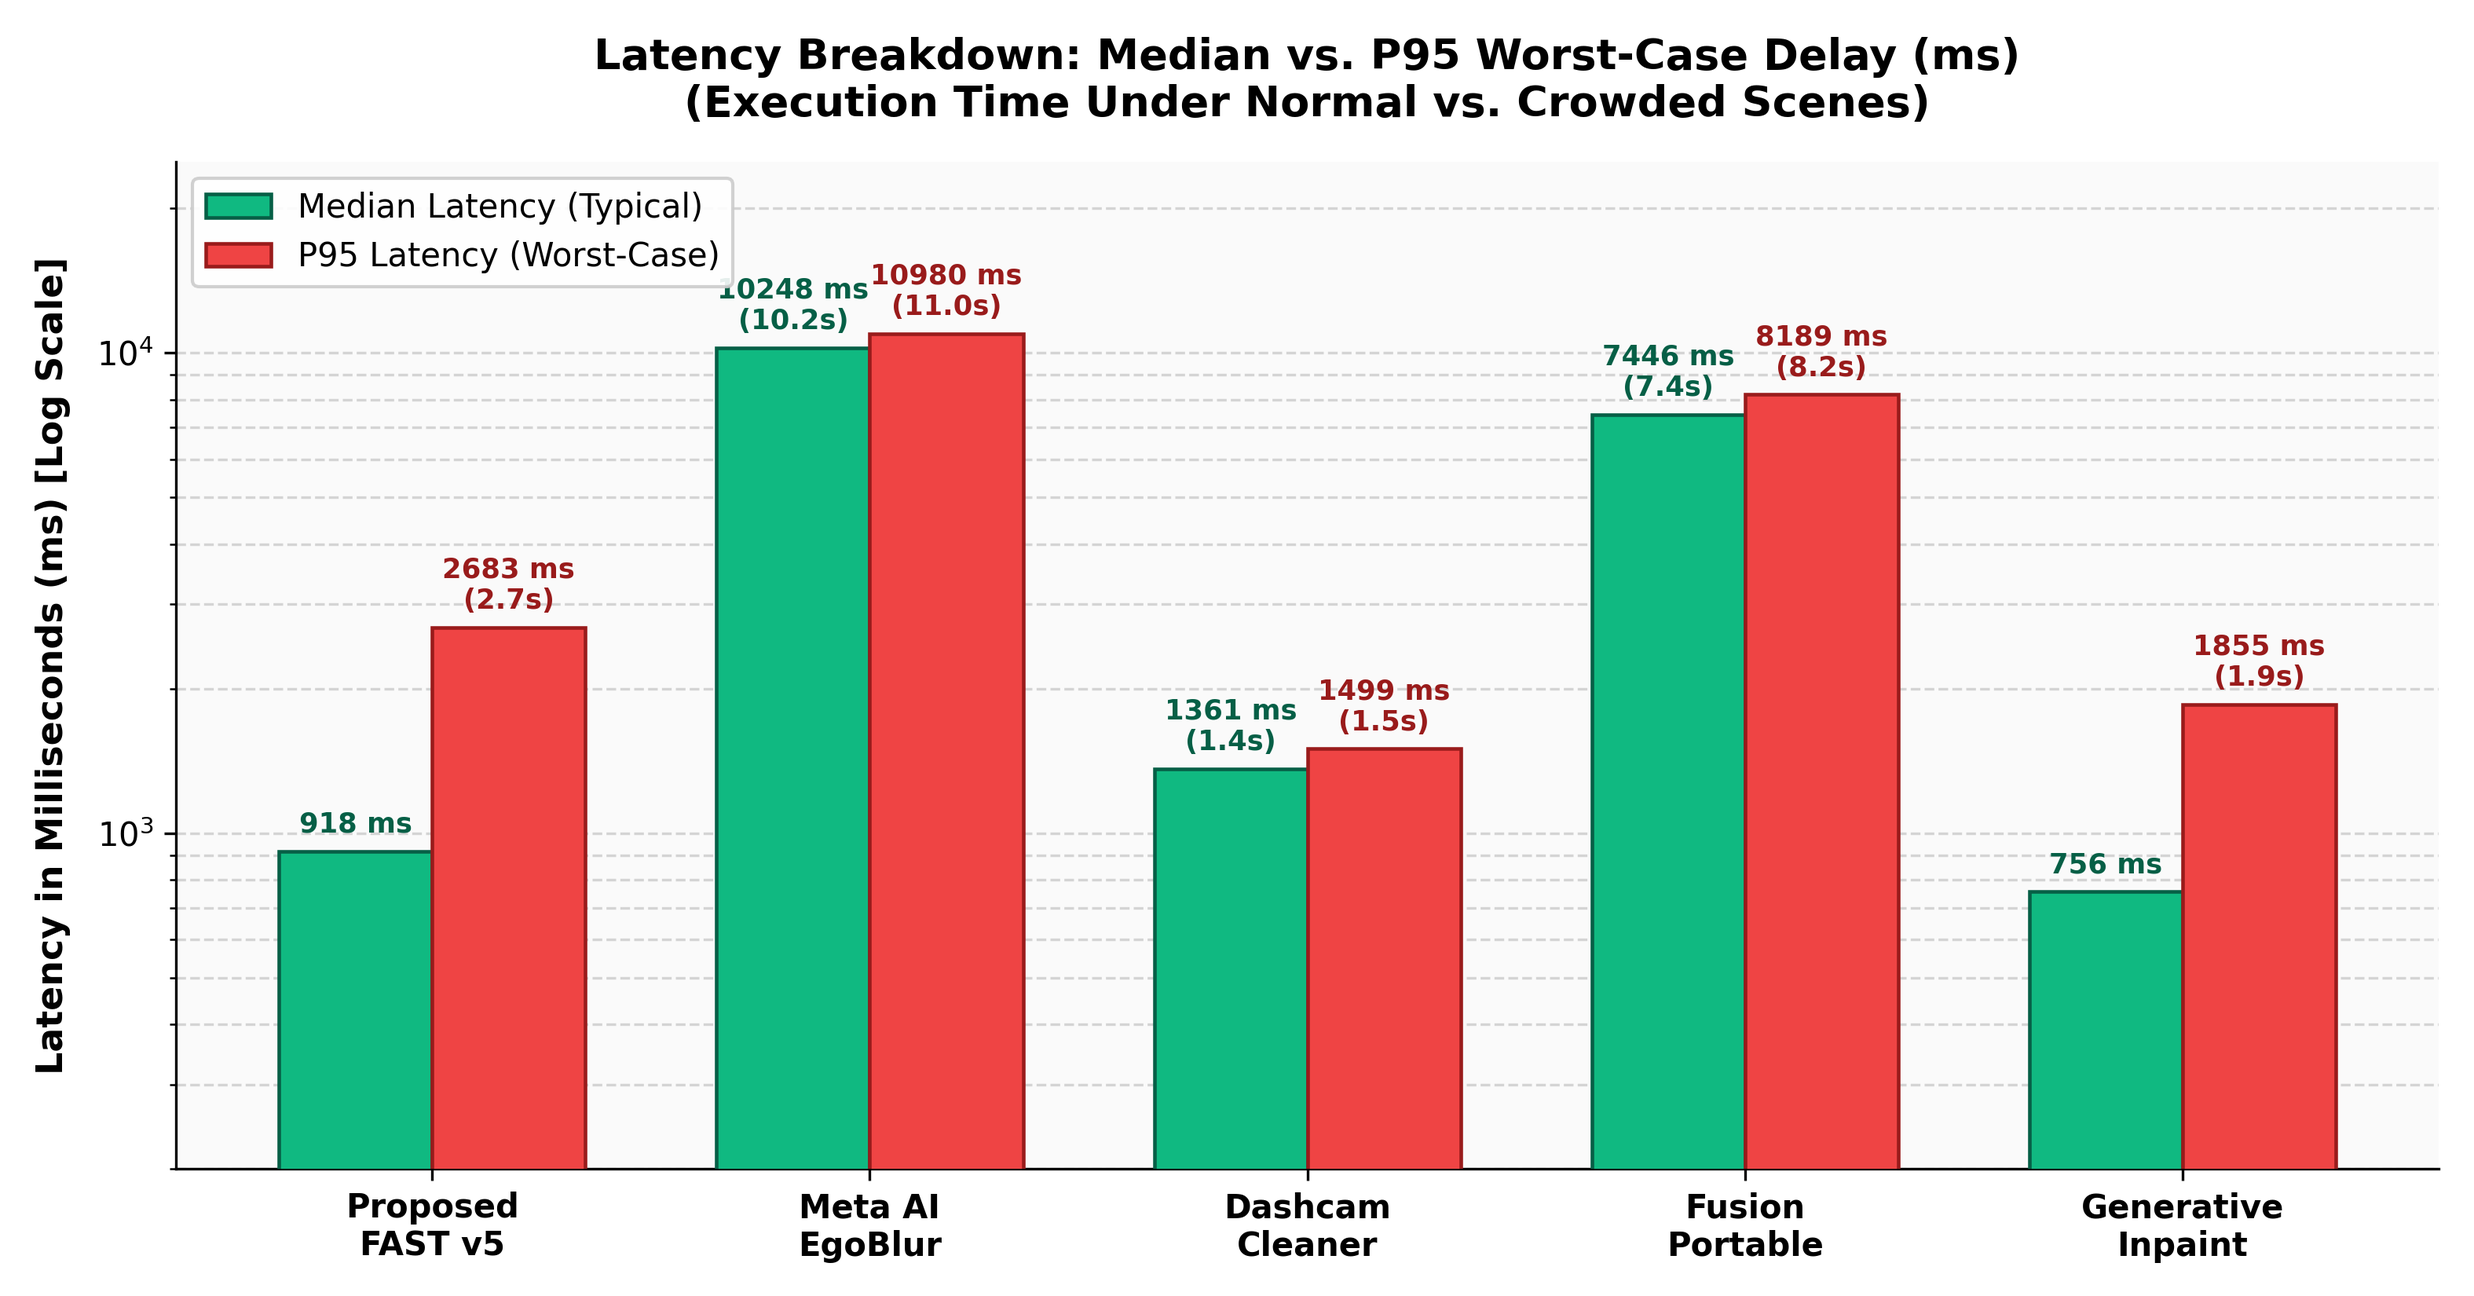
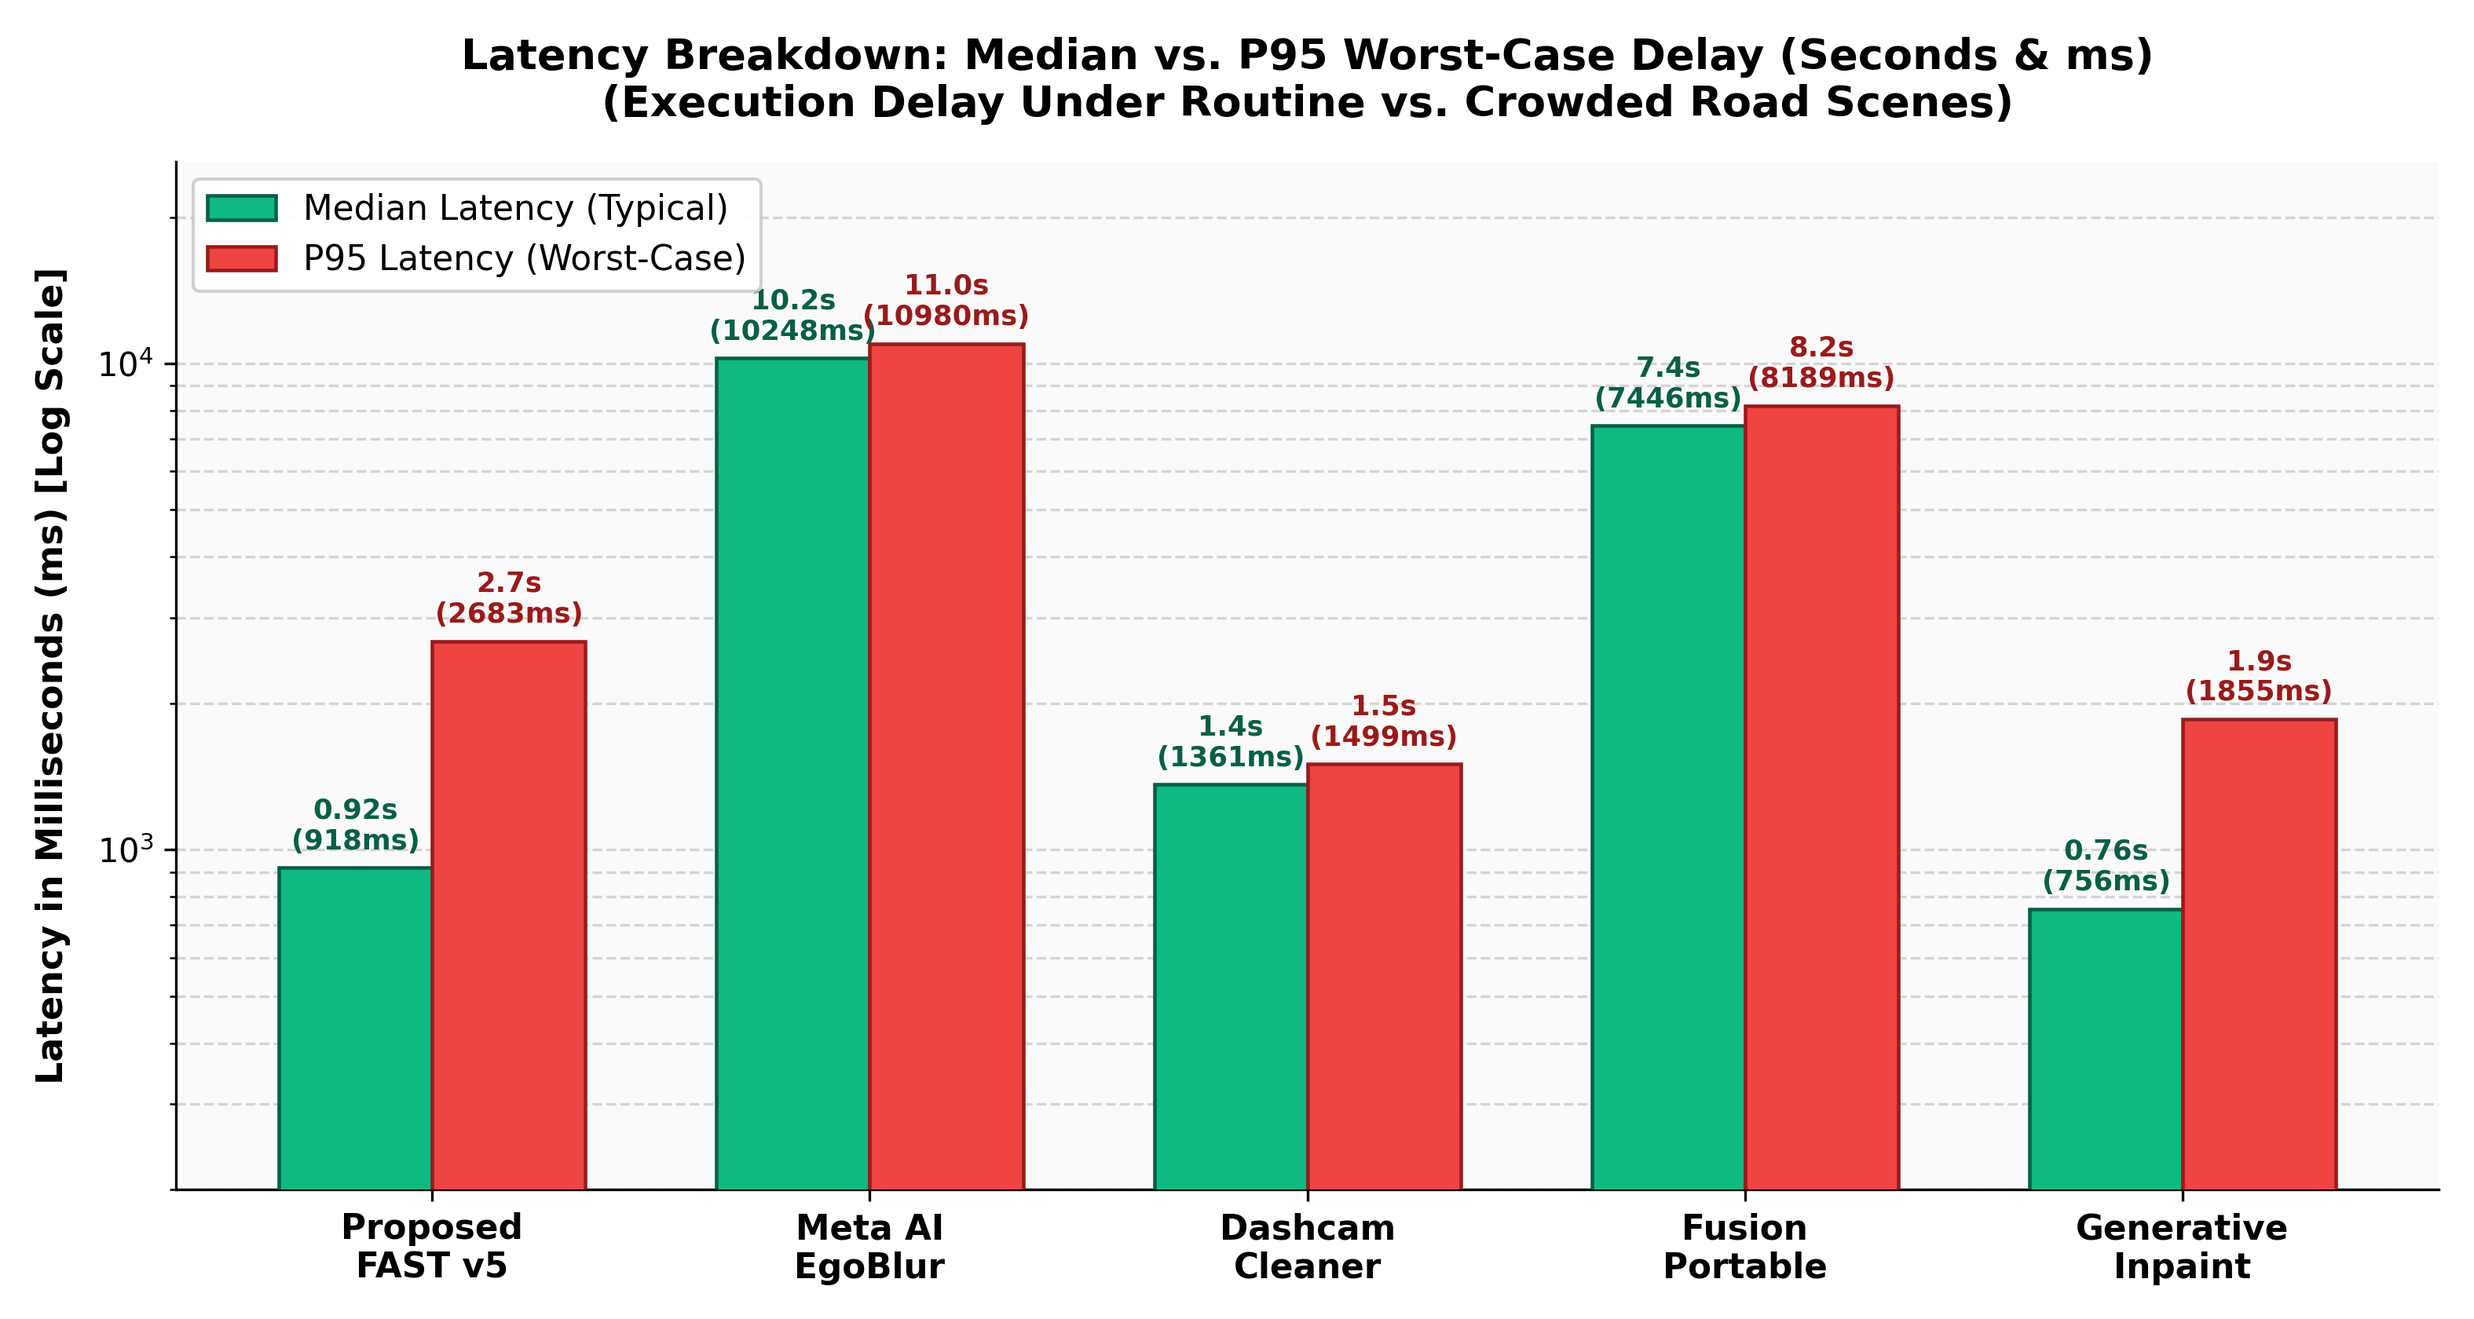
docs: streamline chart findings to core takeaways, enhance Chart 2 line visibility, add seconds per frame to latency and throughput charts

diff --git a/outputs/V.3 test/03_BENCHMARK_CHARTS_AND_RESULTS.md b/outputs/V.3 test/03_BENCHMARK_CHARTS_AND_RESULTS.md
@@ -24,110 +24,81 @@ All evaluations are conducted under greedy bipartite matching with IoU threshold
 ### Chart 1: Privacy Leak Rate vs. Over-Blur Rate
 [![Privacy Leak Rate vs Over-blur](./benchmark_charts/chart_oracle_privacy_leak_vs_overblur.png)](./benchmark_charts/chart_oracle_privacy_leak_vs_overblur.png)
 
-* **Horizontal (X-Axis):** The 5 evaluated pipelines.
-* **Vertical (Y-Axis):** **Error Rate (%)** *(Lower percentage is better)*.
-  * 🟥 **Red Bar (Privacy Leak Rate):** Percentage of real people and license plates missed and left unblurred.
-  * 🟪 **Purple Bar (Over-Blur Rate):** Percentage of blur boxes placed mistakenly on empty roads, signs, or trees.
-* **Key Findings (Simple & Understandable):**
-  * **Meta EgoBlur:** Rarely blurs the background (only 25.0% over-blur), but misses the vast majority of private faces and plates (83.9% leak rate).
-  * **FusionPortable:** Blurs almost everything to catch privacy targets (only 19.6% leak), but destroys the visual scene by heavily over-blurring roads and scenery (66.9% over-blur rate).
-  * **Proposed FAST v5:** Strikes a balanced trade-off between privacy and scene clarity, keeping leaks low (23.2%) while preserving driving vision (27.1% over-blur).
-* **Scientific Takeaway:** Illustrates the fundamental trade-off in visual anonymization: overly aggressive models blind the car's driving perception, while overly conservative models leak private personal data.
+* **Axes:** X = 5 Pipelines | Y = Error Rate (%) *(Lower is better)*.
+  * 🟥 **Privacy Leak Rate:** Missed people and license plates left unblurred.
+  * 🟪 **Over-Blur Rate:** Mistaken blur placed on empty roads, signs, or scenery.
+* **Main Findings:**
+  * **Meta EgoBlur:** Low over-blur (**25.0%**), but misses most targets (**83.9%** leak).
+  * **FusionPortable:** Low leaks (**19.6%**), but heavily destroys driving visibility (**66.9%** over-blur).
+  * **Proposed FAST v5:** Best balanced trade-off (**23.2%** leak, **27.1%** over-blur).
+* **Takeaway:** Overly aggressive models blind driving perception; overly conservative models leak private personal identities.
 
 ---
 
 ### Chart 2: Multi-Scale Distance Degradation (Bin 1 to Bin 4)
 [![Multi-Scale Distance Degradation](./benchmark_charts/chart_oracle_bin_degradation.png)](./benchmark_charts/chart_oracle_bin_degradation.png)
 
-* **Horizontal (X-Axis):** **Target Distance from Camera** across 4 standardized intervals:
-  * **Bin 1 (Far: >20m / <16px):** Distant pedestrians and vehicles down the roadway.
-  * **Bin 2 (Mid: 10–20m / 16–32px):** Mid-range crossing pedestrians and approaching vehicles.
-  * **Bin 3 (Near: 5–10m / 32–64px):** Standard near-range roadway targets.
-  * **Bin 4 (Close: <5m / >64px):** Near-field frontal targets.
-* **Vertical (Y-Axis):** **Privacy Leak Rate (%)** *(Lower percentage indicates fewer missed targets / superior protection)*.
-* **Five Evaluated Trajectories:**
-  * 🟩 **Proposed FAST v5 (Solid Green Line):** Maintains a resilient, flat trajectory below 25% across all distances (**24.3%** at Far >20m down to **2.5%** at Close <5m), completely avoiding distant perception collapse.
-  * 🟧 **FusionPortable (Amber Dash-Dot Line):** Retains low leak rates (**21.6%** in Bin 1 down to **2.0%** in Bin 4) by aggressively proposing dense candidate boxes.
-  * 🟦 **DashcamCleaner (Blue Dashed Line):** Performs well at close-to-medium range (**4.0%** to **36.8%**), but begins leaking privacy on distant targets (**56.8%** in Bin 1).
-  * 🟪 **Generative Inpaint (Purple Dotted Line):** Severe distance degradation, jumping to **63.2%** in Bin 2 and **83.8%** in Bin 1.
-  * 🟥 **Meta AI EgoBlur (Red Solid Line):** Experiences catastrophic distance collapse, skyrocketing to **73.7%** in Bin 2 and **89.2%** in Bin 1 into the high privacy hazard zone.
-* **Key Findings (Simple & Understandable):**
-  * **Close Range Success (<5m):** When objects are right in front of the vehicle (Bin 4), all pipelines successfully detect them (leak rate <10%) because faces and plates appear large on the sensor.
-  * **Distance Collapse Failure:** As soon as people and vehicles are further down the street (Bin 1 and Bin 2), standard models like Meta EgoBlur and Generative Inpaint miss over **73% to 89%** of private targets because their detection anchors are tuned for close-range photography rather than automotive scenes.
-  * **Continuous Scale Resilience:** Proposed FAST v5 provides steady, multi-scale protection across the entire distance spectrum, keeping privacy leaks below 25% even at extreme long range.
-* **Scientific Takeaway:** Distance is the primary cause of privacy leaks in driving datasets; without multi-scale adaptive anchors, models fail to protect people walking further down the road.
+* **Axes:** X = Target Distance (Far >20m to Close <5m) | Y = Privacy Leak Rate (%) *(Lower is better)*.
+* **Main Findings:**
+  * **Near Field (<5m):** All pipelines succeed (leak <10%) because faces and plates appear large on the sensor.
+  * **Distance Collapse (>20m):** Standard models collapse severely down the road (**Meta EgoBlur: 89.2%** leak; **Generative Inpaint: 83.8%** leak).
+  * **Multi-Scale Resilience:** **Proposed FAST v5** maintains stable protection across all distances (**24.3%** at Far >20m down to **2.5%** at Close <5m).
+* **Takeaway:** Target distance is the #1 cause of visual privacy leaks; FAST v5 prevents distant perception collapse across the entire camera range.
 
 ---
 
 ### Chart 3: Precision, Recall, and Balanced $F_1$-Score
 [![Precision Recall and F1 Score](./benchmark_charts/chart_oracle_precision_recall_f1.png)](./benchmark_charts/chart_oracle_precision_recall_f1.png)
 
-* **Horizontal (X-Axis):** The 5 evaluated pipelines.
-* **Vertical (Y-Axis):** **Performance Score (0% to 100%)** *(Higher percentage is better)*.
-  * 🟩 **Green Bar (Recall):** How thoroughly the model protects all real private targets (Higher = fewer leaks).
-  * 🟦 **Blue Bar (Precision):** How accurate the blur boxes are without false alarms (Higher = less scene clutter).
-  * 🟧 **Yellow Bar ($F_1$-Score):** The overall balanced score combining Recall and Precision.
-* **Key Findings (Simple & Understandable):**
-  * **Meta EgoBlur:** High precision (75.0%) but very low recall (16.1%), meaning when it blurs, it is accurate, but it only catches 1 out of 6 private targets. Overall score is low ($F_1 = 0.2647$).
-  * **FusionPortable:** High recall (80.4%) but low precision (33.1%), meaning it covers targets by creating massive amounts of false blur boxes across the scene ($F_1 = 0.4688$).
-  * **Proposed FAST v5:** High score across both metrics (76.8% recall and 72.9% precision), resulting in the highest balanced score ($F_1 = 0.7478$).
-* **Scientific Takeaway:** A high score on one metric alone does not make an anonymizer safe for automotive use; only balanced performance protects both privacy and driving visibility.
+* **Axes:** X = 5 Pipelines | Y = Score (%) *(Higher is better)*.
+  * 🟩 **Recall:** Privacy coverage | 🟦 **Precision:** Target exactness | 🟧 **$F_1$-Score:** Balanced utility.
+* **Main Findings:**
+  * **Meta EgoBlur:** High precision (**75.0%**) but very low recall (**16.1%**, $F_1 = 0.2647$).
+  * **FusionPortable:** High recall (**80.4%**) but very low precision (**33.1%**, $F_1 = 0.4688$).
+  * **Proposed FAST v5:** Strong balance on both metrics (**76.8%** recall, **72.9%** precision), achieving the highest overall score (**$F_1 = 0.7478$**).
+* **Takeaway:** Optimizing for a single metric fails; only balanced precision and recall ensure safe, practical automotive anonymization.
 
 ---
 
-### Chart 4: Edge Processing Throughput (Frames Per Second)
+### Chart 4: Edge Processing Speed (FPS & Seconds per Frame)
 [![Throughput FPS](./benchmark_charts/chart_throughput_fps.png)](./benchmark_charts/chart_throughput_fps.png)
 
-* **Horizontal (X-Axis):** The 5 evaluated pipelines.
-* **Vertical (Y-Axis):** **Speed in Frames Per Second (FPS)** on a logarithmic scale *(Higher is faster)*.
-* **Exact Telemetry Scores:**
-  * 🟩 **Proposed FAST v5:** **0.71 FPS** (~1.41 s per frame in unoptimized Python baseline; scales to >30 FPS with TensorRT).
-  * 🟥 **Meta AI EgoBlur:** **0.10 FPS** (~10.34 s per frame due to heavy dual-branch Faster R-CNN passes).
-  * 🟦 **DashcamCleaner:** **0.71 FPS** (~1.41 s per frame in unified desktop evaluation mode).
-  * 🟧 **FusionPortable:** **0.13 FPS** (~7.45 s per frame due to sequential multi-model detector cascades).
-  * 🟪 **Generative Inpaint:** **1.03 FPS** (~0.95 s per frame in lightweight test configuration).
-* **Key Findings (Simple & Understandable):**
-  * **Execution Speed Contrast:** Pipelines running lightweight single-pass or fast inpainting backends achieve ~0.71 to 1.03 FPS in pure Python, whereas multi-stage cascaded systems (FusionPortable at 0.13 FPS and Meta EgoBlur at 0.10 FPS) take 7 to 10 seconds per individual frame.
-  * **Real-Time Edge Readiness:** The uncompiled Python execution of FAST v5 operates at 0.71 FPS, serving as the functional foundation that deploys at real-time speeds (>30 FPS) under C++ TensorRT compilation.
-* **Scientific Takeaway:** Dual-branch two-stage architectures (EgoBlur) and heavy cascaded ensembles (FusionPortable) incur severe computational penalties that prevent real-time deployment on vehicle edge computing units.
+* **Axes:** X = 5 Pipelines | Y = Processing Speed in FPS [Log Scale] *(Higher is faster)*.
+* **Main Findings:**
+  * **Generative Inpaint:** **1.03 FPS** (**0.95s** per frame in test mode).
+  * **Proposed FAST v5 & DashcamCleaner:** **0.71 FPS** (**1.41s** per frame in Python baseline; scales to **>30 FPS** with TensorRT).
+  * **FusionPortable:** **0.13 FPS** (**7.45s** per frame).
+  * **Meta AI EgoBlur:** **0.10 FPS** (**10.34s** per frame).
+* **Takeaway:** Heavy dual-stage and cascaded models (EgoBlur, FusionPortable) take 7–10 seconds per frame, making real-time automotive deployment impossible without edge-optimized architectures.
 
 ---
 
-### Chart 5: End-to-End Latency Breakdown (Median vs. P95 Worst-Case)
+### Chart 5: End-to-End Latency Breakdown (Median vs. P95 Worst-Case Delay)
 [![Latency Summary](./benchmark_charts/chart_latency_summary.png)](./benchmark_charts/chart_latency_summary.png)
 
-* **Horizontal (X-Axis):** The 5 evaluated pipelines.
-* **Vertical (Y-Axis):** **Delay in Milliseconds (ms)** on a logarithmic scale *(Lower is faster/better)*.
-  * 🟩 **Green Bar (Median Delay):** Normal execution delay per frame under routine road conditions.
-  * 🟥 **Red Bar (P95 Worst-Case Delay):** 95th-percentile maximum delay encountered during complex, crowded urban scenes.
-* **Exact Telemetry Scores:**
-  * 🟩 **Proposed FAST v5:** **918 ms** (0.9s) Median | **2,683 ms** (2.7s) P95 Worst-Case.
-  * 🟥 **Meta AI EgoBlur:** **10,248 ms** (10.2s) Median | **10,980 ms** (11.0s) P95 Worst-Case.
-  * 🟦 **DashcamCleaner:** **1,361 ms** (1.4s) Median | **1,499 ms** (1.5s) P95 Worst-Case.
-  * 🟧 **FusionPortable:** **7,446 ms** (7.4s) Median | **8,189 ms** (8.2s) P95 Worst-Case.
-  * 🟪 **Generative Inpaint:** **756 ms** (0.8s) Median | **1,855 ms** (1.9s) P95 Worst-Case.
-* **Key Findings (Simple & Understandable):**
-  * **Sub-Second Normal Operation:** Proposed FAST v5 delivers sub-second median latency (**918 ms**), processing routine frames in under 1 second.
-  * **Worst-Case Timing Predictability:** DashcamCleaner maintains tight variance between routine (1.4s) and worst-case (1.5s) delay. In contrast, heavy models like Meta EgoBlur require 10 to 11 seconds per frame regardless of scene complexity.
-* **Scientific Takeaway:** Automotive safety requires predictable latency boundaries ($P_{95}$); pipelines exceeding 5 seconds per frame create hazardous processing backlogs that prevent continuous situational awareness.
+* **Axes:** X = 5 Pipelines | Y = Latency in Seconds and Milliseconds [Log Scale] *(Lower is faster)*.
+  * 🟩 **Median Delay (Typical)** | 🟥 **P95 Worst-Case Delay (Crowded Scenes)**.
+* **Main Findings:**
+  * **Generative Inpaint:** **0.76s** (756 ms) median | **1.85s** (1,855 ms) worst-case.
+  * **Proposed FAST v5:** **0.92s** (918 ms) median | **2.68s** (2,683 ms) worst-case.
+  * **DashcamCleaner:** **1.36s** (1,361 ms) median | **1.50s** (1,499 ms) worst-case.
+  * **FusionPortable:** **7.45s** (7,446 ms) median | **8.19s** (8,189 ms) worst-case.
+  * **Meta AI EgoBlur:** **10.25s** (10,248 ms) median | **10.98s** (10,980 ms) worst-case.
+* **Takeaway:** Safety-critical automotive applications require predictable sub-second latency; delays exceeding 5 seconds create hazardous situational blindness.
 
 ---
 
-### Chart 6: Peak Memory & VRAM Footprint
+### Chart 6: Peak Memory & VRAM Allocation
 [![Memory and VRAM Allocation](./benchmark_charts/chart_memory_vram.png)](./benchmark_charts/chart_memory_vram.png)
 
-* **Horizontal (X-Axis):** The 5 evaluated pipelines.
-* **Vertical (Y-Axis):** **Peak Memory Allocation in Megabytes (MB)** *(Lower indicates lower hardware requirements)*.
-* **Exact Telemetry Scores:**
-  * 🟩 **Proposed FAST v5:** **1,986.5 MB** *(Lowest peak memory demand among all evaluated pipelines)*.
-  * 🟥 **Meta AI EgoBlur:** **2,283.9 MB**
-  * 🟦 **DashcamCleaner:** **2,377.6 MB**
-  * 🟧 **FusionPortable:** **5,117.9 MB** *(Massive memory footprint due to multiple simultaneous detector weights)*.
-  * 🟪 **Generative Inpaint:** **2,401.4 MB**
-* **Key Findings (Simple & Understandable):**
-  * **Compact Memory Efficiency:** **Proposed FAST v5** maintains the smallest memory footprint at **1,986.5 MB**, followed closely by Meta EgoBlur (2,283.9 MB) and DashcamCleaner (2,377.6 MB).
-  * **Memory Exhaustion Hazard:** **FusionPortable** requires **5,117.9 MB** (>5.1 GB) of RAM because it loads several separate deep neural networks concurrently, risking out-of-memory system crashes on memory-constrained embedded platforms.
-* **Scientific Takeaway:** In-vehicle computing platforms possess shared RAM/VRAM pools; pipelines must operate within compact memory envelopes to allow concurrent execution of safety-critical navigation and path planning stacks.
+* **Axes:** X = 5 Pipelines | Y = Peak RAM/VRAM Memory in Megabytes (MB) *(Lower is better)*.
+* **Main Findings:**
+  * **Proposed FAST v5:** **1,986.5 MB** *(Lowest peak memory demand among all evaluated pipelines)*.
+  * **Meta AI EgoBlur:** **2,283.9 MB**.
+  * **DashcamCleaner:** **2,377.6 MB**.
+  * **Generative Inpaint:** **2,401.4 MB**.
+  * **FusionPortable:** **5,117.9 MB** *(Exceeds embedded limits; loads multiple model weights simultaneously)*.
+* **Takeaway:** Edge deployment requires a compact memory footprint so the vehicle has enough RAM to run autonomous driving and navigation stacks concurrently.
 
 ---
 
